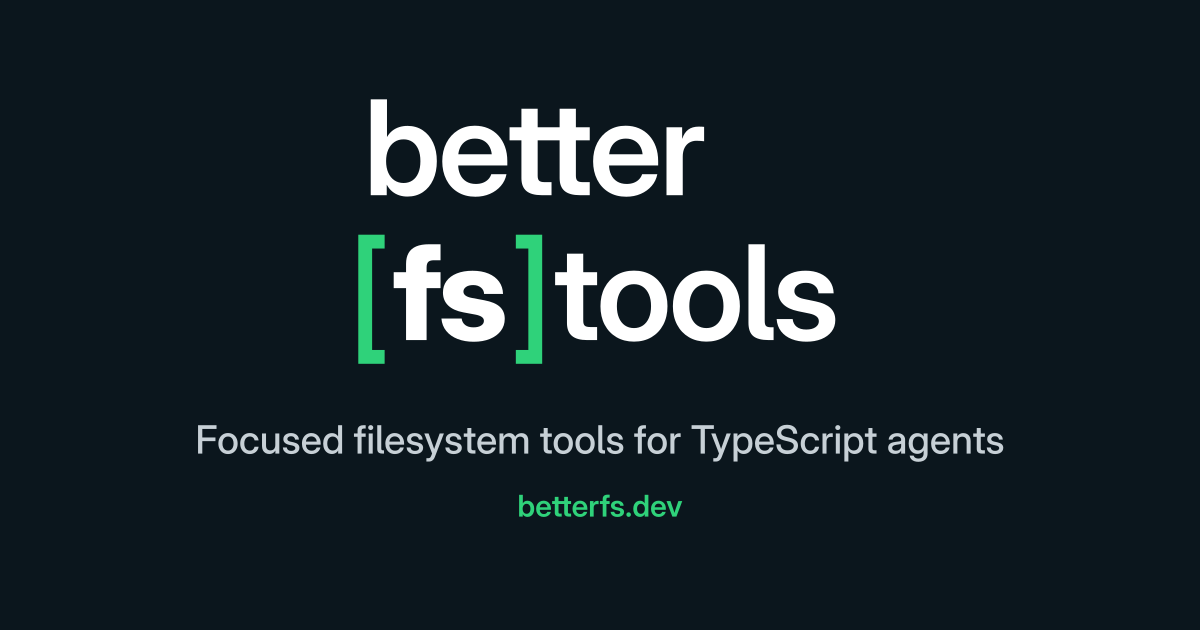
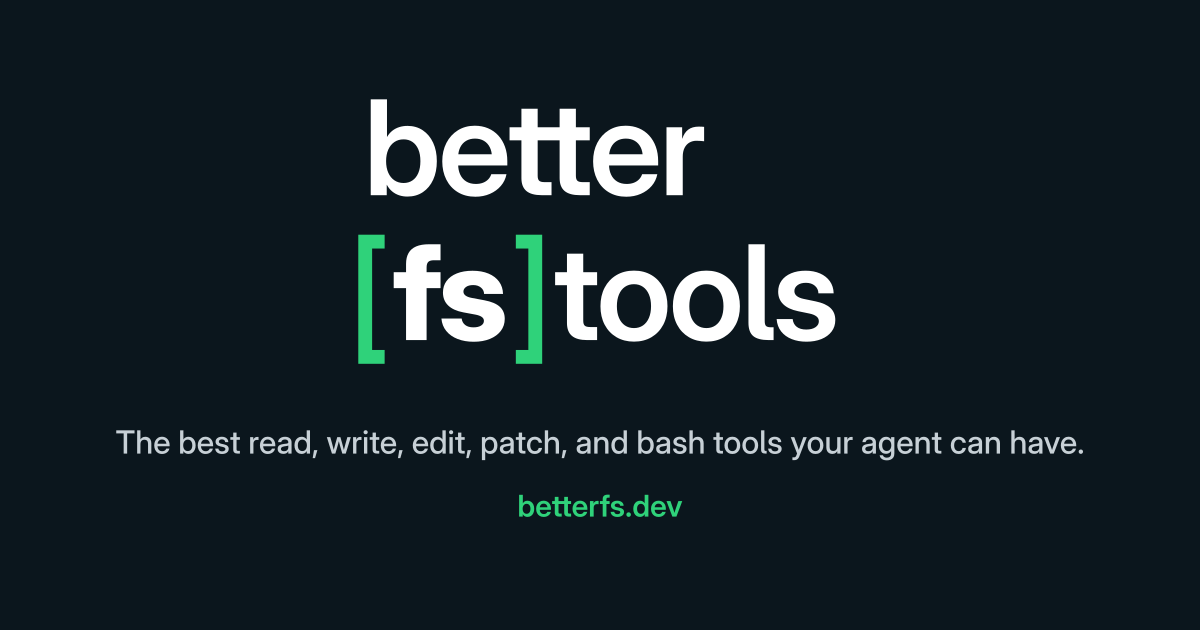
docs: use the docs home tagline in the meta description and social card

Changed region(s): [[0.0925, 0.6635, 0.8942, 0.754]]

diff --git a/apps/docs/src/routes/__root.tsx b/apps/docs/src/routes/__root.tsx
@@ -3,7 +3,7 @@ import { RootProvider } from "fumadocs-ui/provider/tanstack";
 import type { ReactNode } from "react";
 import appCss from "@/styles/app.css?url";
 
-const description = "Focused filesystem tools for TypeScript.";
+const description = "The best read, write, edit, patch, and bash tools your agent can have.";
 
 /** Social cards need an absolute image URL, so this names the production host. */
 const ogImage = "https://betterfs.dev/og.png";
